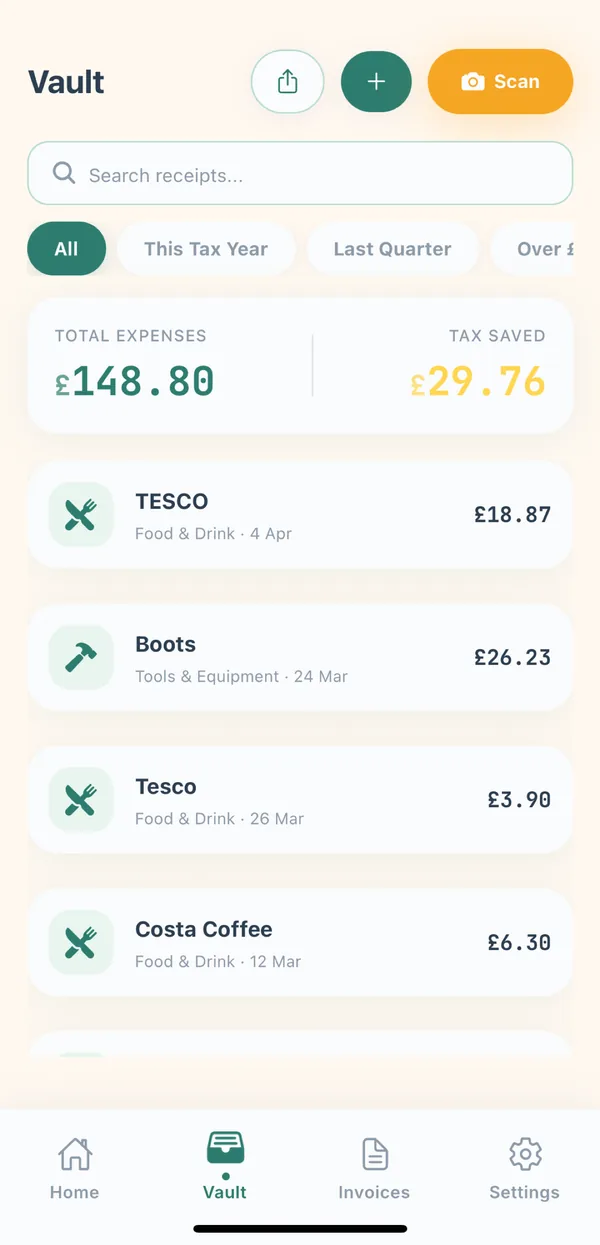
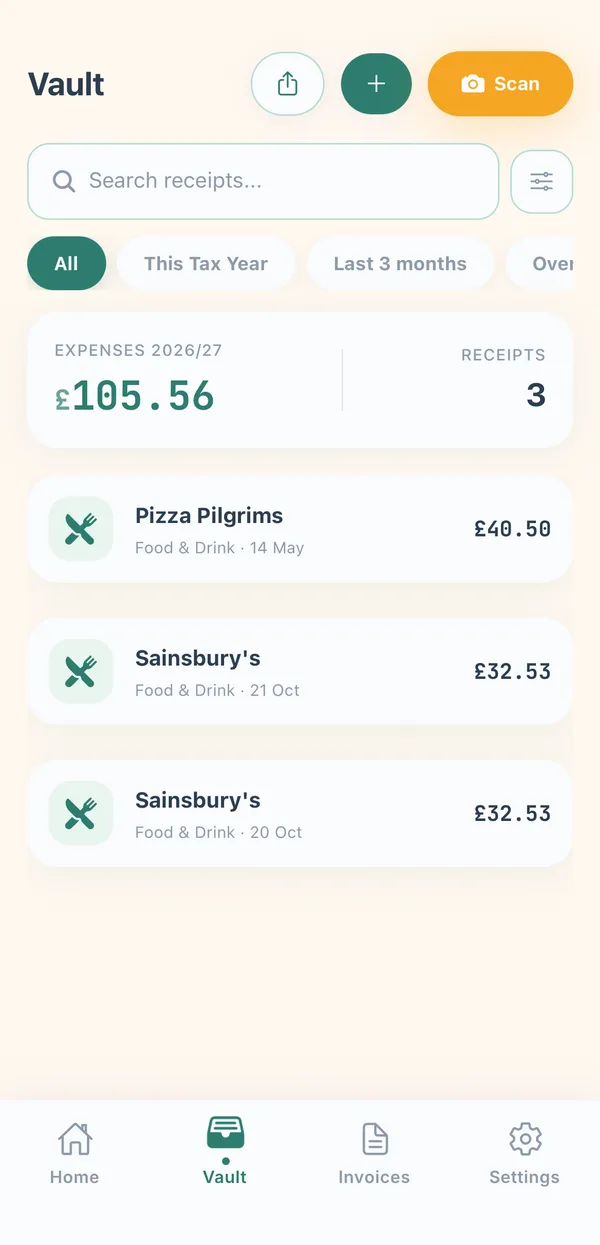
feat(carousel): new app screenshots from 1.1.1, plus an Invoices slide
Scan, Vault, P&L and Accountant pack now show the current app.
The 'Last shared with' line is painted out of the accountant shot.

diff --git a/src/app/components/PhoneCarousel.tsx b/src/app/components/PhoneCarousel.tsx
@@ -6,7 +6,7 @@ import Image from "next/image";
 const phones = [
   {
     src: "/images/app-receipt-scan.webp",
-    alt: "Sorted ‘Add Receipt’ screen on iPhone, with options to pick a photo from library, use the camera, or enter a receipt manually.",
+    alt: "Sorted ‘Confirm Details’ screen on iPhone after scanning a Robert Dyas receipt, with merchant, amount of £25.97 and date filled in, and Hedgie saying ‘Got it: Robert Dyas, £25.97. Check it over!’",
     label: "Scan receipts",
   },
   {
@@ -15,23 +15,28 @@ const phones = [
     label: "Dashboard",
   },
   {
+    src: "/images/app-invoices.webp",
+    alt: "Sorted Invoices screen on iPhone, showing £662.00 invoiced this tax year, £1.00 outstanding, and a list of sent and paid invoices.",
+    label: "Invoices",
+  },
+  {
     src: "/images/app-email-receipts.webp",
     alt: "Sorted settings screen on iPhone, showing the user’s unique mysorted.app email alias for forwarding online receipts.",
     label: "Email receipts in",
   },
   {
     src: "/images/app-pl-report.webp",
-    alt: "Sorted P&L Report screen on iPhone, with tax-year selector, income, expenses, net profit and an estimated tax owed of £4,209.18, plus a Generate PDF Report button.",
+    alt: "Sorted P&L Report screen on iPhone, with tax-year selector, income of £3,212.00, expenses of £105.56, net profit, estimated tax owed, income by client, and a Generate PDF Report button.",
     label: "P&L report",
   },
   {
     src: "/images/app-accountant-pack.webp",
-    alt: "Sorted settings screen on iPhone, showing Generate P&L Report, Tax Summary Report, Export All Data and a Share with Accountant option.",
+    alt: "Sorted Data & Export settings on iPhone, showing Generate P&L Report, Business Mileage Log, Tax Summary Report, Export All Data, and an Email to my accountant form for sending a tax pack.",
     label: "Accountant pack",
   },
   {
     src: "/images/app-vault.webp",
-    alt: "Sorted Vault screen on iPhone, showing total expenses of £148.80, tax saved of £29.76, and a list of categorised receipts from Tesco, Boots and Costa Coffee.",
+    alt: "Sorted Vault screen on iPhone, showing expenses of £105.56 for 2026/27 across 3 receipts, with categorised receipts from Pizza Pilgrims and Sainsbury’s.",
     label: "Vault",
   },
 ];
